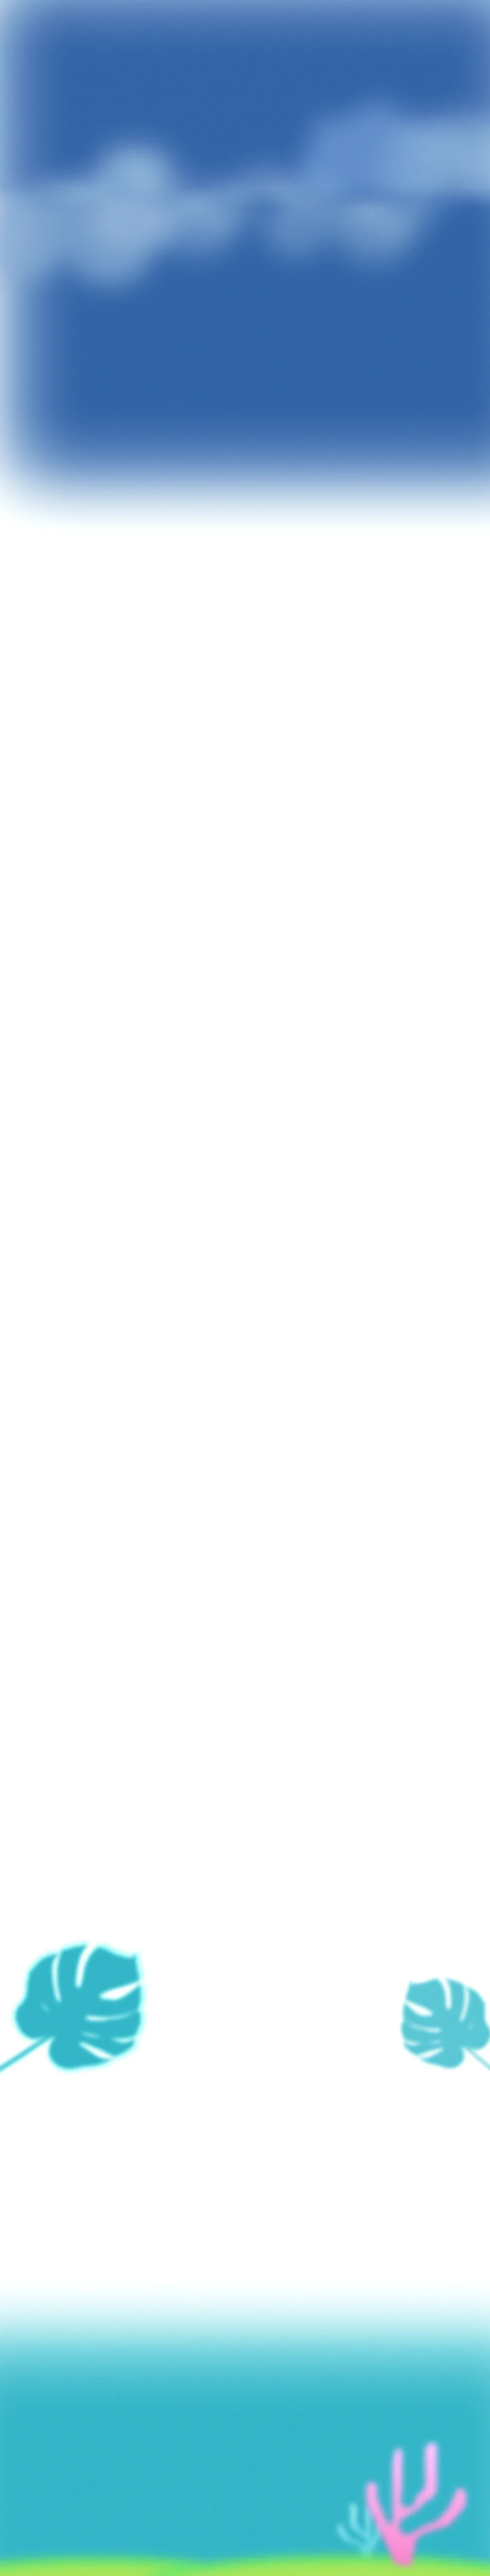
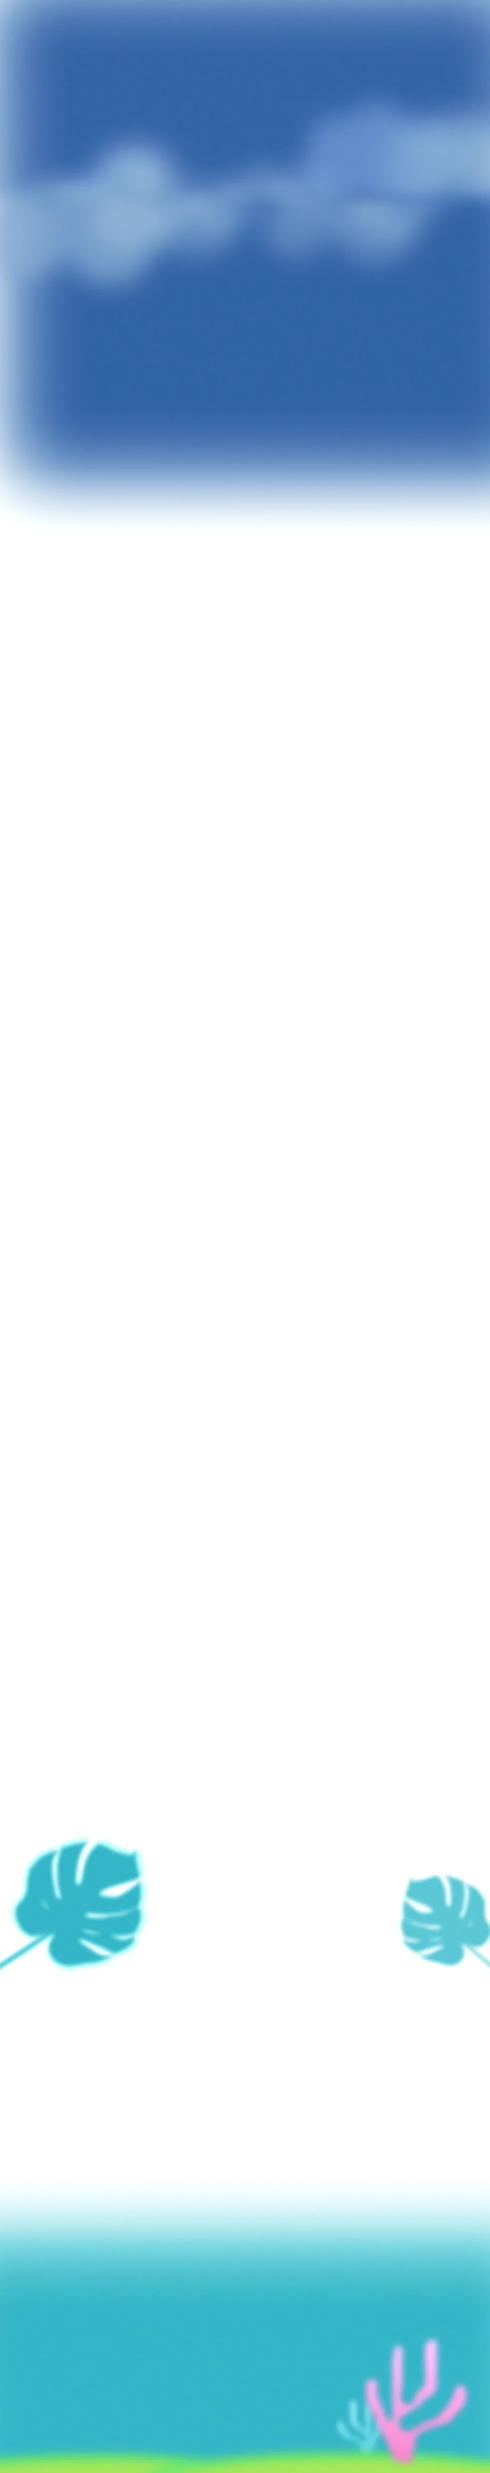
Pinned About: the cloud shape sinks out of sight, shorter hold
After gliding to the centre the white cloud shape now sinks below the sky's
edge and fades, leaving only the horizontal line. The pinned stretch is 700px
instead of 1000px; Work and everything below move up 300px.

Claude-Session: https://claude.ai/code/session_01DvA43kwznhfsetrajp2DeL

diff --git a/styles.css b/styles.css
@@ -33,10 +33,10 @@ body {
 .stage {
   position: relative;
   width: 1440px;
-  height: 7557px;
+  height: 7257px;
   overflow: clip;   /* not hidden: that would stop the sticky chameleon */
   /* All artwork, exported from the Figma frame with text and icons hidden */
-  background: #fff url("assets/background.webp?v=4") top left / 1440px 7557px no-repeat;
+  background: #fff url("assets/background.webp?v=5") top left / 1440px 7257px no-repeat;
   /* script.js sets `zoom` so the 1440px design fills the viewport width */
 }
 
@@ -58,7 +58,7 @@ body {
    an animated WebP, 330ms per frame), on the same canvas mapping as in Figma. */
 .bird { opacity: .3; filter: blur(3px); }
 /* The fish swims behind the pink coral (baked into the background): cut the
-   coral's shape out of the fish. Coral sits at (1053.8, 7143.8) on the stage. */
+   coral's shape out of the fish. Coral sits at (1053.8, 6843.8) on the stage. */
 .fish {
   filter: blur(4.2px);
   pointer-events: none;
@@ -75,16 +75,16 @@ body {
 }
 
 /* About, pinned (script.js): the wrapper is the scene (1500px, stage y 459–1959)
-   plus 1000px of scrolling during which the scene stays on screen. --pin-top
+   plus 700px of scrolling during which the scene stays on screen. --pin-top
    (script.js) sticks it so the screen's bottom edge sits at stage y 1720. */
-.pin-wrap { position: absolute; left: 0; top: 459px; width: 1440px; height: 2500px; }
+.pin-wrap { position: absolute; left: 0; top: 459px; width: 1440px; height: 2200px; }
 .pin {
-  position: sticky; top: var(--pin-top, -361px); width: 1440px; height: 1500px;
-  background: #fff url("assets/background.webp?v=4") 0 -459px / 1440px 7557px no-repeat;
+  position: sticky; top: var(--pin-top, -361px); width: 1440px; height: 1500px; overflow: clip;
+  background: #fff url("assets/background.webp?v=5") 0 -459px / 1440px 7257px no-repeat;
 }
 
 /* moved by script.js while pinned: the white cloud shape settles in the centre,
-   the blue cloud bank parts left and right */
+   the blue cloud bank parts left and right, then the shape sinks out of sight */
 .sky-puff, .clouds-px { pointer-events: none; will-change: transform, opacity; }
 .sky-puff { transform-origin: 50% 100%; }
 /* the two halves cross-fade over the middle third, so parting them leaves no seam */
@@ -532,7 +532,7 @@ a:focus-visible { outline: 2px solid var(--white); outline-offset: 4px; }
 
   .sec {
     position: relative; top: auto !important; width: 100%; padding: 0 20px;
-    background: url("assets/background.webp?v=4") no-repeat;
+    background: url("assets/background.webp?v=5") no-repeat;
     background-size: calc(1440px * var(--s, 1)) auto;
     background-position: center calc(var(--y0, 0) * var(--s, 1) * -1px);
   }
@@ -550,7 +550,7 @@ a:focus-visible { outline: 2px solid var(--white); outline-offset: 4px; }
      second background, and the crop fades into the white of the Work section */
   #about {
     --y0: 750; --s: .8; min-height: 690px; padding-top: 40px; padding-bottom: 110px;
-    background-image: url("assets/clouds.webp"), url("assets/background.webp?v=4");
+    background-image: url("assets/clouds.webp"), url("assets/background.webp?v=5");
     background-size: calc(1440px * var(--s)) auto;
     background-position: calc(-60px * var(--s)) calc((1190 - var(--y0)) * var(--s) * 1px), calc(-60px * var(--s)) calc(var(--y0) * var(--s) * -1px);
   }
@@ -581,10 +581,10 @@ a:focus-visible { outline: 2px solid var(--white); outline-offset: 4px; }
   .wcard .thumb { font-size: 22px; }
 
   .sunset { padding: 0; overflow: hidden; background: none; }
-  .sunset-art { zoom: var(--mz, .45); margin-left: -300px; background: url("assets/background.webp?v=4") 0 -6100px / 1440px 7557px no-repeat; }
+  .sunset-art { zoom: var(--mz, .45); margin-left: -300px; background: url("assets/background.webp?v=5") 0 -5800px / 1440px 7257px no-repeat; }
   .sunset-art .l { position: absolute; left: var(--x); top: var(--y); width: auto; height: auto; }
 
-  #contact { --y0: 6920; --s: .9; min-height: 600px; padding-top: 44px; padding-bottom: 110px; text-align: center; }
+  #contact { --y0: 6620; --s: .9; min-height: 600px; padding-top: 44px; padding-bottom: 110px; text-align: center; }
   #open { width: 92%; max-width: 420px; margin: 0 auto; }
   .t-body { margin-top: 28px; font-size: 16px; white-space: normal !important; }
   .t-email { width: 100% !important; max-width: 340px; height: 54px !important; margin: 12px auto 0; font-size: 17px; }

diff --git a/script.js b/script.js
@@ -90,12 +90,13 @@ if (sparkle && matchMedia('(hover: hover) and (pointer: fine)').matches) {
 // About, pinned. The scene (stage y 459–1959) sticks once the screen's bottom edge
 // reaches stage y 1720 and stays for the next HOLD px of scrolling (styles.css).
 // Over that stretch: the About text and "?" fade, the blue cloud bank parts to
-// the sides, the white cloud shape sinks into the centre — then the bare sky
-// holds for a moment before the scene lets go and Work scrolls up.
+// the sides, the white cloud shape glides to the centre and sinks until only the
+// sky's straight bottom edge is left — which holds for a moment before the scene
+// lets go and Work scrolls up.
 const about = document.getElementById('about');
 const puff = document.getElementById('skyPuff');
 const cloudsL = document.getElementById('cloudsL'), cloudsR = document.getElementById('cloudsR');
-const PIN_TOP = 459, PIN_BOTTOM = 1720, HOLD = 1000;
+const PIN_TOP = 459, PIN_BOTTOM = 1720, HOLD = 700;
 const PUFF_CX = 661 + 695 / 2;                        // the shape's centre line on the stage
 const reduceMotion = matchMedia('(prefers-reduced-motion: reduce)');
 const ramp = (t, a, b) => { const x = Math.max(0, Math.min(1, (t - a) / (b - a))); return x * x * (3 - 2 * x); };
@@ -110,7 +111,7 @@ function moveSky() {
   }
   // 0 when the scene pins, 1 when it lets go
   const t = Math.max(0, Math.min(1, (-stage.getBoundingClientRect().top / z - (PIN_BOTTOM - vh)) / HOLD));
-  const fade = ramp(t, 0, .3), part = ramp(t, .05, .5), glide = ramp(t, .1, .6);
+  const fade = ramp(t, 0, .25), part = ramp(t, .05, .45), glide = ramp(t, .1, .45), sink = ramp(t, .45, .78);
   about.style.opacity = fade ? (1 - fade).toFixed(3) : '';
   about.style.visibility = fade >= 1 ? 'hidden' : '';
   const move = !reduceMotion.matches;
@@ -118,9 +119,11 @@ function moveSky() {
   cloudsL.style.transform = move && part ? `translate(${-cx}px, ${cy}px)` : '';
   cloudsR.style.transform = move && part ? `translate(${cx}px, ${cy}px)` : '';
   cloudsL.style.opacity = cloudsR.style.opacity = part ? (1 - part).toFixed(3) : '';
-  // the shape ends centred, a little smaller and lower: only its peak rises out of the white
-  const g = move ? glide : 0;
-  puff.style.transform = g ? `translate(${((720 - PUFF_CX) * g).toFixed(1)}px, ${(289 * g).toFixed(1)}px) scale(${(1 - .2 * g).toFixed(3)})` : '';
+  // the shape glides to the centre (a little smaller and lower), then sinks below the
+  // sky's edge into the white, leaving just a horizontal line
+  const g = move ? glide : 0, dy = 289 * g + (move ? 500 * sink : 0);
+  puff.style.transform = g ? `translate(${((720 - PUFF_CX) * g).toFixed(1)}px, ${dy.toFixed(1)}px) scale(${(1 - .2 * g).toFixed(3)})` : '';
+  puff.style.opacity = sink ? (1 - ramp(t, .62, .78)).toFixed(3) : '';
 }
 if (about && puff && cloudsL && cloudsR) {
   const queueSky = () => { if (!skyQueued) { skyQueued = true; requestAnimationFrame(moveSky); } };

diff --git a/index.html b/index.html
@@ -11,7 +11,7 @@
   <link rel="preconnect" href="https://fonts.googleapis.com">
   <link rel="preconnect" href="https://fonts.gstatic.com" crossorigin>
   <link rel="stylesheet" href="https://fonts.googleapis.com/css2?family=Archivo:wdth,wght@125,400;125,700&family=Italiana&family=Unbounded:wght@300;400;500&display=swap">
-  <link rel="stylesheet" href="styles.css?v=e82fa424">
+  <link rel="stylesheet" href="styles.css?v=2525382f">
   <script>document.documentElement.classList.add('js', 'is-loading')</script>
 </head>
 <body>
@@ -68,7 +68,7 @@
 
     <!-- Sunset: sun, water lines and laptop as separate layers, stacked as in Figma.
          The laptop screen shows the projects one by one (chameleon.js). -->
-    <div class="sec sunset" style="top:6100px">
+    <div class="sec sunset" style="top:5800px">
       <div class="sunset-art">
         <img class="l" style="--x:390px;--y:16px" src="assets/sun.svg" width="661" height="661" alt="">
         <img class="l" style="--x:0px;--y:551px" src="assets/waves.svg" width="1440" height="264" alt="">
@@ -78,11 +78,11 @@
         </button>
       </div>
     </div>
-    <img class="l fish" style="--x:-171px;--y:6637px;--w:3150px;--h:2100px" src="assets/fish.gif" alt="">
+    <img class="l fish" style="--x:-171px;--y:6337px;--w:3150px;--h:2100px" src="assets/fish.gif" alt="">
 
 
     <!-- Work -->
-    <section class="sec" id="work" style="top:2698px" aria-labelledby="mywork">
+    <section class="sec" id="work" style="top:2398px" aria-labelledby="mywork">
       <h2 class="l reveal type" id="mywork" style="--d:0s;--x:477.79px;--y:24.45px"><img src="assets/type-my-work.svg?v=2" width="487" height="129" alt="My work"></h2>
       <!-- Sticky chameleon beside the scrolling project list (from the work-page
            artifact): its tongue sticks to the project in the middle of the screen. -->
@@ -103,7 +103,7 @@
     </section>
 
     <!-- Contact -->
-    <section class="sec" id="contact" style="top:6994px" aria-labelledby="open">
+    <section class="sec" id="contact" style="top:6694px" aria-labelledby="open">
       <h2 class="l reveal type" id="open" style="--d:0s;--x:405.7px;--y:16.08px"><img src="assets/type-open.svg" width="630" height="68" alt="Open for new projects"></h2>
       <p class="l reveal t-body" style="--d:.12s;--x:520px;--y:112px;--w:400px">Write directly to</p>
       <a class="l reveal t-email" style="--d:.2s;--x:520px;--y:150px;--w:400px;--h:56px" href="mailto:nikasaracuta@gmail.com">nikasaracuta@gmail.com</a>
@@ -210,7 +210,7 @@
   </div>
 
   <script src="loader.js?v=68ee955a"></script>
-  <script src="script.js?v=5bc7f44e"></script>
+  <script src="script.js?v=150e22ff"></script>
   <script src="about.js?v=37dfe53c"></script>
   <script src="chameleon.js?v=6754f284"></script>
 </body>

diff --git a/README.md b/README.md
@@ -4,7 +4,7 @@ Static one-page portfolio built from the Figma frame **Main** (node `315:133`) i
 `PORTFOLIO` file. Open `index.html` in a browser — no build step.
 
 - `assets/background.webp` — all artwork, exported from the Figma frame with text and icons hidden.
-  The page is 7557px tall instead of Figma's 4237px: 1000px of white at y 1960 for the pinned
+  The page is 7257px tall instead of Figma's 4237px: 700px of white at y 1960 for the pinned
   About scene to hold, and 2320px in the Work section for the scrolling project list. The white
   cloud shape and the blue cloud bank between About and Work are separate layers
   (`sky-puff.webp`, `clouds.webp`) so they can move while About is pinned.
